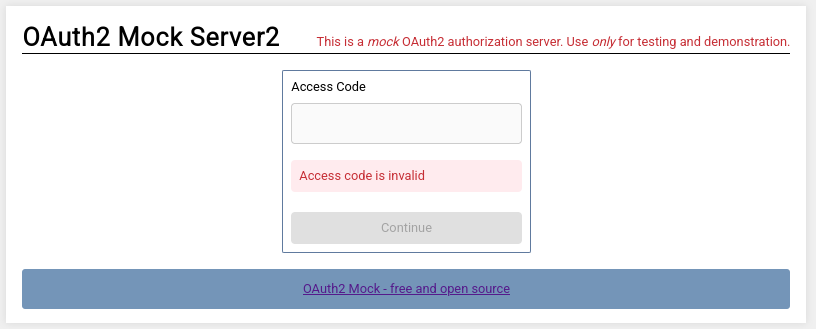
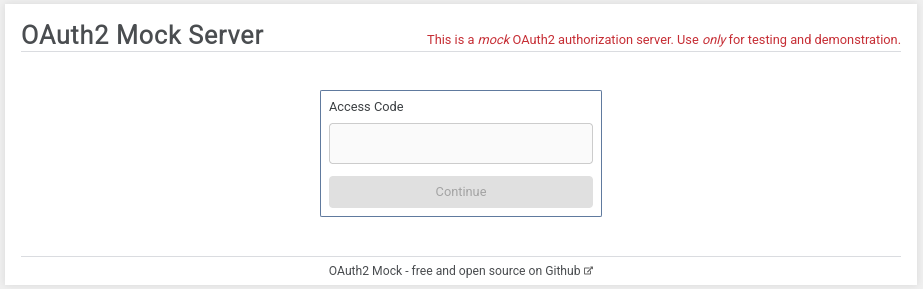
Updates screenshots to version 1.3.0

diff --git a/README.md b/README.md
@@ -11,6 +11,7 @@ This server is designed **only** for testing OAuth2 flows in development and tes
 - **Access Restriction**: Simple way restrict access to your demo environments.
 - **Authorization Code Flow**: Complete implementation of the OAuth2 authorization code grant type
 - **User Info Endpoint**: Retrieve user information specific to the authorized user
+- **Negative scenarios**: Test how clients process error on getting access code and access token
 
 
 ![Authorization page](images/authorization_page.png)
